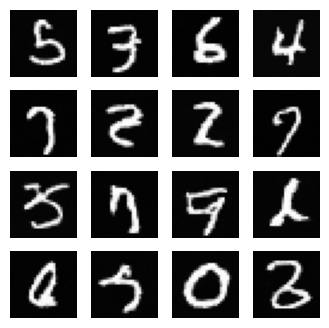
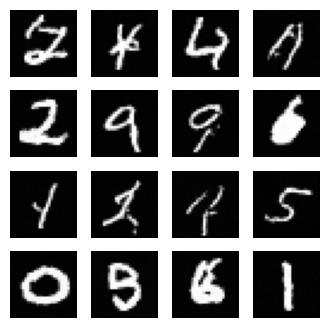
Updated code, and re-trained

diff --git a/ddpm.py b/ddpm.py
@@ -158,7 +158,8 @@ class ResidualBlock(nn.Module):
         super().__init__()
         self.layer1 = nn.Conv2d(channels, channels, kernel_size=3, stride=1, padding=1)
         self.layer2 = nn.Conv2d(channels, channels, kernel_size=3, stride=1, padding=1)
-        self.layer_t = nn.Linear(
+        self.layer_t1 = nn.Linear(time_embedding_dimension, time_embedding_dimension)
+        self.layer_t2 = nn.Linear(
             time_embedding_dimension, channels * image_size * image_size
         )
         self.activation = nn.SiLU()
@@ -172,8 +173,9 @@ class ResidualBlock(nn.Module):
         x = self.layer1(x)
         x = self.activation(x)
 
-        t = self.layer_t(t)
+        t = self.layer_t1(t)
         t = self.activation(t)
+        t = self.layer_t2(t)
         t = t.reshape(x.shape)
 
         x += t
@@ -191,7 +193,8 @@ class UNet(nn.Module):
     ):
         super().__init__()
         self.positional_embedding = PositionalEmbedding(time_embedding_dimension)
-        self.layer_t = nn.Linear(time_embedding_dimension, time_embedding_dimension)
+        self.layer_t1 = nn.Linear(time_embedding_dimension, time_embedding_dimension)
+        self.layer_t2 = nn.Linear(time_embedding_dimension, time_embedding_dimension)
 
         self.layer_down1 = nn.Conv2d(
             1, hidden_channels, kernel_size=3, stride=1, padding=1
@@ -265,8 +268,9 @@ class UNet(nn.Module):
 
     def forward(self, x, t):
         t_embed = self.positional_embedding(t)
-        t_embed = self.layer_t(t_embed)
+        t_embed = self.layer_t1(t_embed)
         t_embed = self.activation(t_embed)
+        t_embed = self.layer_t2(t_embed)
 
         x1 = self.layer_down1(x)
         x1 = self.activation(x1)
@@ -345,13 +349,18 @@ if __name__ == "__main__":
 
     pbar = tqdm(range(1, epochs + 1))
     for epoch in pbar:
-        for x_batch, y_batch in loader:
+        for iteration, (x_batch, y_batch) in enumerate(loader):
             optimizer.zero_grad()
             x_batch = x_batch.to(device)
             loss = ddpm.train(x_batch)
             loss.backward()
             optimizer.step()
-            pbar.set_postfix({"Loss": loss.item()})
+            pbar.set_postfix(
+                {
+                    "Loss": loss.item(),
+                    "Iteration": f"{iteration} / {60000 // batch_size}",
+                }
+            )
             losses.append(loss.item())
         scheduler.step()
 

diff --git a/README.md b/README.md
@@ -22,13 +22,7 @@ Multi-headed self attention is also added at certain steps, and the time-depende
     <img src="Images/MNIST.png" height="500">
 </div>
 
-The model is then trained on the MNIST training dataset for 10 epochs leading to the following loss curve:
-
-<div align="center">
-    <img src="Images/DDPM_loss.png" height="300">
-</div>
-
-Before any training, sampling from the model leads to images mostly looking like random noise. After training, samples from the model is starting to resemble the images in the MNIST dataset.
+Before any training, sampling from the model leads to images mostly looking like random noise. After training the model on the MNIST training dataset for 10 epochs, samples start to resemble the images from the training.
 
 <div align="center">
     <img src="Images/DDPM_random_samples.png" height="300">
